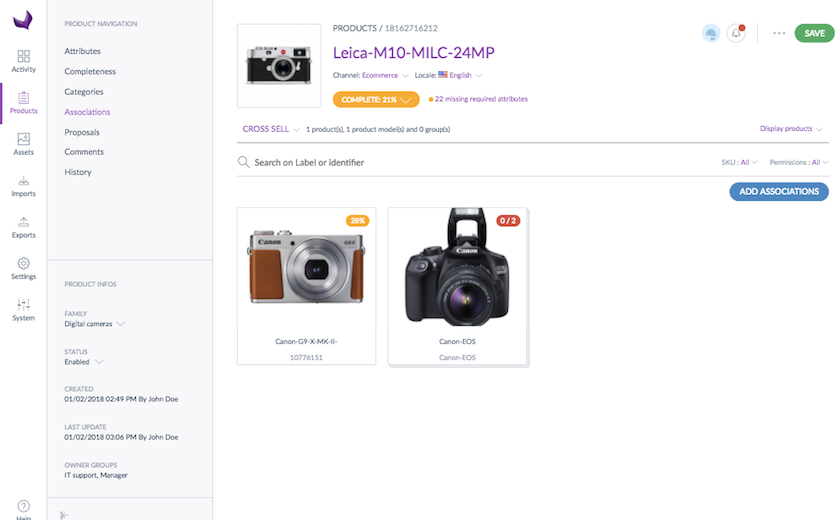
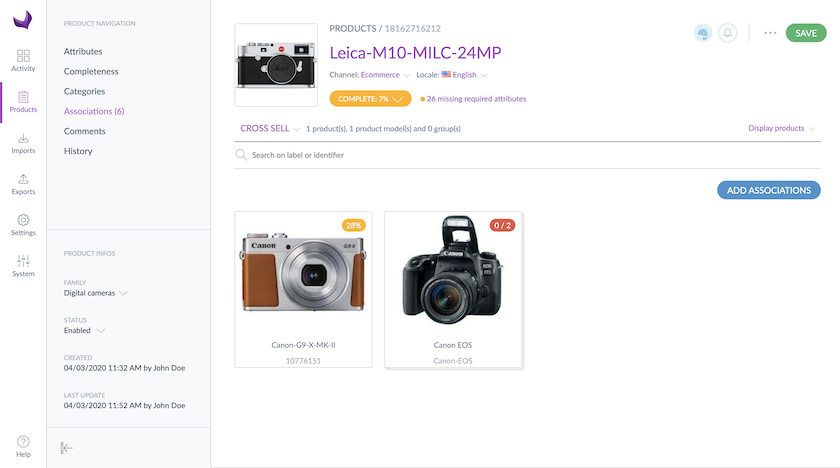
Update screens

diff --git a/content/md/products-super-power/product-associations.md b/content/md/products-super-power/product-associations.md
@@ -33,7 +33,8 @@ Only the associated products or [product models](what-about-products-variants.ht
 ![View the associated products](../img/Products_ProductsAssociated21.png)
 
 :::info
-The number of associations for a product or a product model is displayed in total and by association type.
+The number of associations for a product or a product model is displayed in total (after the `Associations` tab label) and by association type (in the `Association type` list).
+![View the number of associations](../img/Products_ProductsAssociatedNumber.png)
 :::
 
 By default, if the product has no association for the selected association type, nothing is displayed in the `Associations` tab.
@@ -47,7 +48,7 @@ By default, if the product has no association for the selected association type,
 1.  Click on an associated product or product model
 1.  The associated product or product model opens in a new tab
 
-![View the associated products](../img/Products_ProductsAssociated21.png)
+![Open the associated products](../img/Products_ProductsOpenAssociated.png)
 
 # Add/remove associations to/from a product
 
